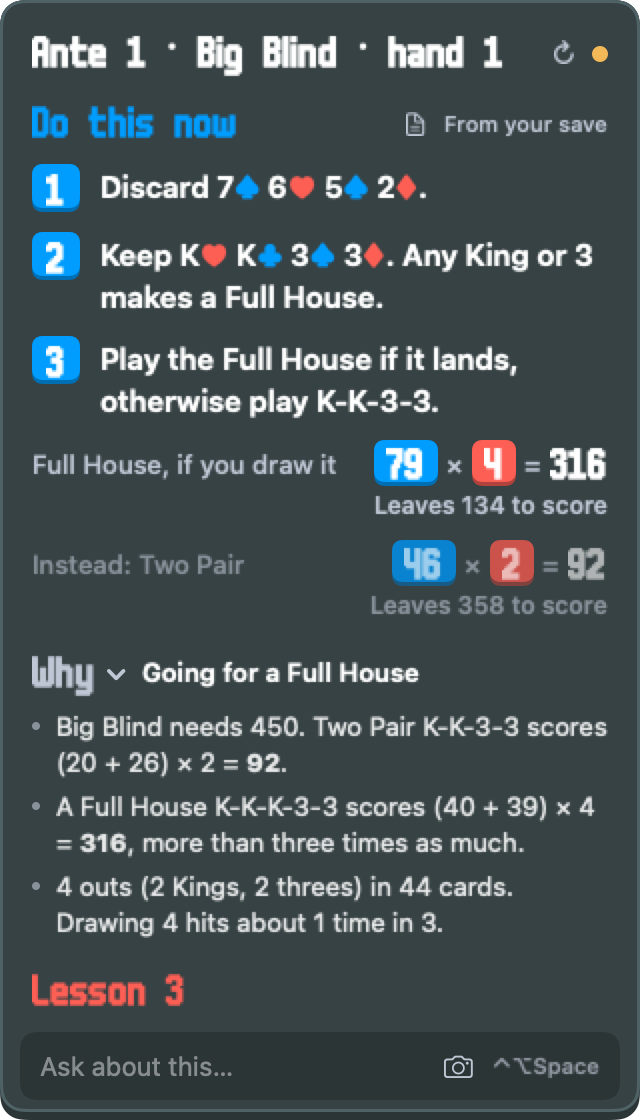
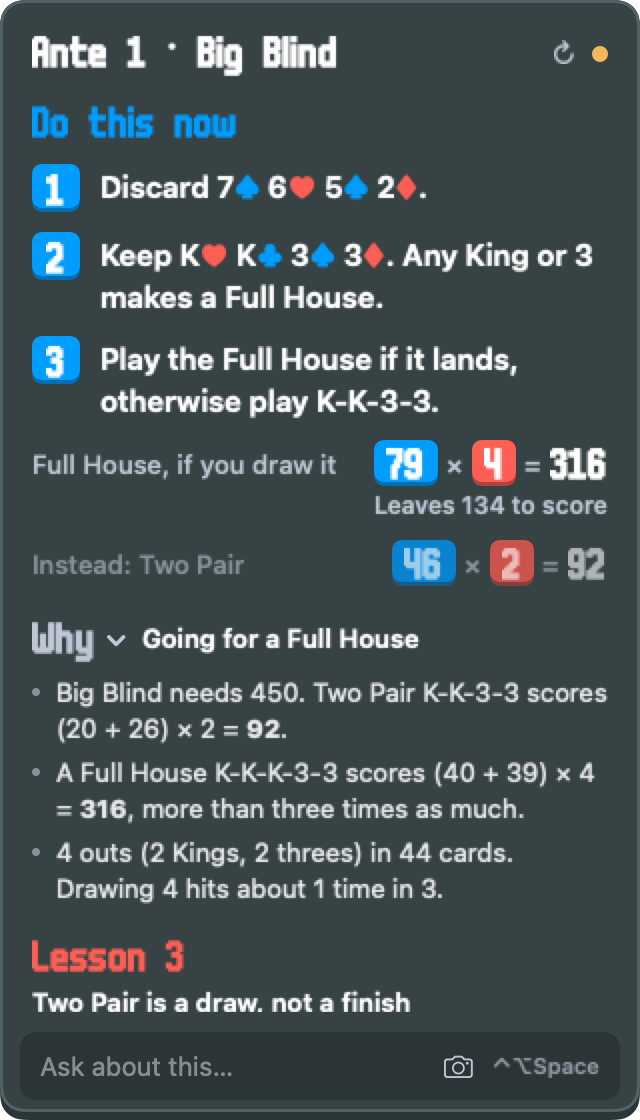
Cut the clutter in the panel
Steps only say what to do and the goal is left out when a hand is played,
because the score line already names it. The headline fits on one line,
"From your save" is gone and a hand that clears shows a gold total and a
tick. Rounded score lines using "≈" now get their chip and mult tiles.

Changed region(s): [[0.0312, 0.5312, 0.9688, 0.9062], [0.625, 0.0938, 0.9688, 0.125], [0.5938, 0.0312, 0.7812, 0.0625]]

diff --git a/Sources/Balabro/OverlayView.swift b/Sources/Balabro/OverlayView.swift
@@ -5,12 +5,12 @@ import SwiftUI
 ///
 /// ```
 /// ┌───────────────────────────────┐
-/// │ Ante 3 · Big Blind · hand 2 ↻●│  headline in the pixel font, refresh, status dot
-/// │ Do this now    From your save │  chip-blue label, and what the coach could see
+/// │ Ante 3 · Big Blind          ↻●│  headline in the pixel font, refresh, status dot
+/// │ Do this now  Saw your screen  │  chip-blue label, and whether the coach looked at the screen
 /// │ 1 Discard J♦ 4♠ 3♥ 2♥         │  large, numbered, red/blue suit glyphs
 /// │ 2 Play Q-Q-6-6                │
-/// │ Two Pair        [46] × [2] = 92 │  chip blue and mult red, as in the game
-/// │             Leaves 208 to score │  against what the save says is still needed
+/// │ Two Pair      [46] × [2] = 92 │  chip blue and mult red, as in the game
+/// │           Leaves 208 to score │  or a gold total and a tick if it clears, from what the save says is left
 /// │                               │  everything above stays put; everything below scrolls
 /// │ Why ▸ Going for a Straight    │  the goal stays visible, the reasons open with one tap
 /// │ Lesson 12                     │  mult-red label
@@ -284,9 +284,11 @@ private struct DoThisNow: View {
                     .font(Theme.pixelFont(2))
                     .foregroundStyle(Theme.chips)
                 Spacer(minLength: 0)
-                Label(sawScreen ? "Saw your screen" : "From your save", systemImage: sawScreen ? "camera.fill" : "doc.text")
-                    .font(.system(size: 11, weight: .medium))
-                    .foregroundStyle(Theme.muted)
+                if sawScreen {
+                    Label("Saw your screen", systemImage: "camera.fill")
+                        .font(.system(size: 11, weight: .medium))
+                        .foregroundStyle(Theme.muted)
+                }
             }
             ForEach(Array(steps.enumerated()), id: \.offset) { index, step in
                 StepRow(number: index + 1, text: step)
@@ -373,30 +375,53 @@ private struct ScoreRow: View {
     let line: Advice.ScoreLine
     let chipsNeeded: Double?
 
+    private var outcome: Advice.ScoreLine.Outcome? { chipsNeeded.flatMap(line.outcome) }
+
     var body: some View {
         VStack(alignment: .trailing, spacing: 2) {
-            HStack(spacing: 6) {
-                SuitText(line.label, size: 13, weight: .medium)
-                    .foregroundStyle(Theme.muted)
-                Spacer(minLength: 0)
-                if let sum = line.sum {
-                    HStack(spacing: 4) {
-                        tile(sum.chips, ChipTile())
-                        symbol("×")
-                        tile(sum.mult, ChipTile(face: Theme.mult, lip: Theme.multDeep))
-                        symbol("=")
-                        Text(sum.total).font(Theme.pixelFont(2)).foregroundStyle(Theme.text)
-                    }
-                    .fixedSize()
+            // Beside the numbers when it fits on one line, otherwise above them, so a long label never wraps letter by letter.
+            ViewThatFits(in: .horizontal) {
+                HStack(spacing: 6) {
+                    label.fixedSize()
+                    Spacer(minLength: 0)
+                    numbers
+                }
+                VStack(alignment: .trailing, spacing: 4) {
+                    label.frame(maxWidth: .infinity, alignment: .leading)
+                    numbers
                 }
             }
-            if let outcome = chipsNeeded.flatMap(line.outcome) {
-                Text(outcome.text)
+            if !line.isAlternative, case .leaves(let chips) = outcome {
+                Text("Leaves \(chips) to score")
                     .font(.system(size: 12, weight: .semibold))
-                    .foregroundStyle(outcome.clearsBlind ? Theme.money : Theme.muted)
+                    .foregroundStyle(Theme.muted)
             }
         }
         .opacity(line.isAlternative ? 0.6 : 1)
+    }
+
+    private var label: some View {
+        SuitText(line.label, size: 13, weight: .medium)
+            .foregroundStyle(Theme.muted)
+    }
+
+    @ViewBuilder private var numbers: some View {
+        if let sum = line.sum {
+            HStack(spacing: 4) {
+                tile(sum.chips, ChipTile())
+                symbol("×")
+                tile(sum.mult, ChipTile(face: Theme.mult, lip: Theme.multDeep))
+                symbol("=")
+                Text(sum.total).font(Theme.pixelFont(2)).foregroundStyle(outcome == .clears ? Theme.money : Theme.text)
+                if outcome == .clears {
+                    Image(systemName: "checkmark")
+                        .font(.system(size: 10, weight: .heavy))
+                        .foregroundStyle(Theme.money)
+                        .accessibilityLabel("Clears the blind")
+                }
+            }
+            .fixedSize()
+        }
     }
 
     private func tile(_ number: String, _ background: ChipTile) -> some View {

diff --git a/Sources/BalabroCore/Prompt.swift b/Sources/BalabroCore/Prompt.swift
@@ -23,9 +23,8 @@ enum Prompt {
         - Two Pair: 46 x 2 = 92
         - Instead, Full House: 76 x 4 = 304
 
-        **Goal:** At most eight words. If the steps play a hand now, name it, such as "Playing a Diamond Flush to clear \
-        the blind". Otherwise say what this is building towards, such as "Going for a Straight" or "Saving up for a \
-        second joker".
+        **Goal:** At most eight words on what this is building towards, such as "Going for a Straight" or "Saving up for \
+        a second joker". Leave the Goal out when the steps play a hand now, because the Score block already names it.
 
         **Why:**
         - At most four bullets, one line each, no nested bullets.
@@ -37,6 +36,7 @@ enum Prompt {
         starting at 1, and never repeat one you already gave.
 
         Rules:
+        - Steps say only what to do. Reasons go in Why, so "Play 7♦ 6♠ 6♣ 4♦." and not "Play 7♦ 6♠ 6♣ 4♦ so the pair scores".
         - At every play or discard decision, check the order of the player's jokers. Jokers score from left to right, \
         so +Mult should come before XMult, Blueprint copies the joker to its right and Brainstorm copies the leftmost. \
         Effects that say "when scored" fire with the cards, before any joker's own effect, so their position doesn't \
@@ -52,7 +52,8 @@ enum Prompt {
         for the hand the steps play or aim for, written as "Full House, if you draw it" when it needs a draw. Then add \
         one line for the hand the player would most likely play instead, starting "Instead,", even if it's a bigger \
         kind of hand, so they can compare the two. Write each line as "hand: chips x mult = total", with chips and mult \
-        after every card and joker that scores. Leave the block out in the shop, in a pack and at a blind select.
+        after every card and joker that scores, always with "=" even when the numbers are rounded. Name the hand exactly, \
+        such as "Diamond Flush" or "Pair of 9s". Leave the block out in the shop, in a pack and at a blind select.
         - End the steps at the first discard, play, reroll or pack opening, because that changes the board and you get the new state \
         straight away. Your next answer replaces these steps, so anything after that point would vanish. Put what \
         comes after in the Goal instead. Dragging jokers and buying cards don't change the board, so they can come \
@@ -184,10 +185,10 @@ enum Prompt {
         If the answer depends on cards the state doesn't list, such as a booster pack's contents, ask the player to list them.
         """
 
-    /// "Ante 3 · Big Blind · 3 hands, 2 discards". The overlay's headline and the transcript title.
+    /// "Ante 3 · Big Blind". The overlay's headline and the transcript title.
     static func title(_ kind: Decision.Kind, _ s: RunSnapshot, _ text: GameText) -> String {
         let detail = switch kind {
-        case .playHand: "\(s.blind.map { name($0.key, text) } ?? "Blind") · \(s.handsLeft) hands, \(s.discardsLeft) discards"
+        case .playHand: s.blind.map { name($0.key, text) } ?? "Blind"
         case .shop: "Shop"
         case .blindSelect: "Blind select"
         case .openPack(let pack, _): packName(pack)

diff --git a/Sources/Balabro/Previews.swift b/Sources/Balabro/Previews.swift
@@ -11,10 +11,10 @@ enum Previews {
         try? FileManager.default.createDirectory(at: directory, withIntermediateDirectories: true)
         let states: [(String, CoachView, Bool, CGFloat, Updater.Status)] = [
             ("waiting", CoachView(status: .waitingForRun, headline: "", advice: nil, thread: [], queuedQuestion: nil, problem: nil, canRetry: false), false, 420, .none),
-            ("streaming", CoachView(status: .answering, headline: "Ante 1 · Big Blind · hand 1", advice: streaming, thread: [], queuedQuestion: nil, problem: nil, canRetry: false), false, 420, .none),
-            ("finished", CoachView(status: .ready, headline: "Ante 1 · Big Blind · hand 1", chipsNeeded: 450, advice: finished, thread: [], queuedQuestion: nil, problem: nil, canRetry: false), true, 560, .none),
-            ("update", CoachView(status: .ready, headline: "Ante 1 · Big Blind · hand 1", advice: finished, thread: [], queuedQuestion: nil, problem: nil, canRetry: false), false, 420, .available(release)),
-            ("follow-up", CoachView(status: .ready, headline: "Ante 1 · Big Blind · hand 1", advice: finished, thread: thread, queuedQuestion: nil, problem: nil, canRetry: false), false, 520, .none),
+            ("streaming", CoachView(status: .answering, headline: "Ante 1 · Big Blind", advice: streaming, thread: [], queuedQuestion: nil, problem: nil, canRetry: false), false, 420, .none),
+            ("finished", CoachView(status: .ready, headline: "Ante 1 · Big Blind", chipsNeeded: 450, advice: finished, thread: [], queuedQuestion: nil, problem: nil, canRetry: false), true, 560, .none),
+            ("update", CoachView(status: .ready, headline: "Ante 1 · Big Blind", advice: finished, thread: [], queuedQuestion: nil, problem: nil, canRetry: false), false, 420, .available(release)),
+            ("follow-up", CoachView(status: .ready, headline: "Ante 1 · Big Blind", advice: finished, thread: thread, queuedQuestion: nil, problem: nil, canRetry: false), false, 520, .none),
         ]
         for (name, view, showWhy, height, update) in states {
             let url = directory.appending(path: "overlay-\(name).png")

diff --git a/Sources/BalabroCore/Advice.swift b/Sources/BalabroCore/Advice.swift
@@ -31,19 +31,15 @@ public struct Advice: Sendable, Equatable {
             public init(chips: String, mult: String, total: String) { (self.chips, self.mult, self.total) = (chips, mult, total) }
         }
 
-        public struct Outcome: Sendable, Equatable {
-            public var text: String
-            public var clearsBlind: Bool
-
-            public init(text: String, clearsBlind: Bool) { (self.text, self.clearsBlind) = (text, clearsBlind) }
+        public enum Outcome: Sendable, Equatable {
+            case clears
+            case leaves(String)
         }
 
         /// What this hand does to the blind, given the score still needed. nil when the total isn't a number.
         public func outcome(chipsNeeded: Double) -> Outcome? {
             guard let total = sum.flatMap({ Double($0.total.replacing(",", with: "")) }) else { return nil }
-            return total >= chipsNeeded
-                ? Outcome(text: "Clears the blind", clearsBlind: true)
-                : Outcome(text: "Leaves \(Prompt.chips(chipsNeeded - total)) to score", clearsBlind: false)
+            return total >= chipsNeeded ? .clears : .leaves(Prompt.chips(chipsNeeded - total))
         }
 
         public init(label: String, sum: Sum? = nil, isAlternative: Bool = false) {
@@ -54,7 +50,7 @@ public struct Advice: Sendable, Equatable {
             var text = line.replacing("**", with: "")
             let isAlternative = text.lowercased().hasPrefix("instead")
             if isAlternative { text = "Instead: " + text.dropFirst("instead".count).drop { ",: ".contains($0) } }
-            guard let match = text.wholeMatch(of: /(.*?)[:\s]*([\d,.]+)\s*[x×]\s*([\d,.]+)\s*=\s*([\d,]+(?:\.\d+)?(?:e\+?\d+)?)\.?/) else {
+            guard let match = text.wholeMatch(of: /(.*?)[:\s]*([\d,.]+)\s*[x×]\s*([\d,.]+)\s*(?:=|≈|~=|~)\s*([\d,]+(?:\.\d+)?(?:e\+?\d+)?)\.?/) else {
                 self.init(label: text, isAlternative: isAlternative)
                 return
             }

diff --git a/Tests/BalabroCoreTests/AdviceTests.swift b/Tests/BalabroCoreTests/AdviceTests.swift
@@ -79,6 +79,14 @@ struct AdviceTests {
         #expect(a.why == ["It beats the blind."])
     }
 
+    @Test func roundedScoreLineStillGetsItsNumbers() {
+        let a = Advice(markdown: "**Score:**\n- Pair of 6s: 230 x 1,291 ≈ 296,900\n- Instead, Pair of 4s: 226 x 1,291 ~ 291,800")
+        #expect(a.score == [
+            .init(label: "Pair of 6s", sum: .init(chips: "230", mult: "1,291", total: "296,900")),
+            .init(label: "Instead: Pair of 4s", sum: .init(chips: "226", mult: "1,291", total: "291,800"), isAlternative: true),
+        ])
+    }
+
     @Test func scoreLineWhoseHandNameStartsWithANumberKeepsIt() {
         let a = Advice(markdown: "**Score:**\n- 3 of a Kind: 30 x 3 = 90")
         #expect(a.score == [.init(label: "3 of a Kind", sum: .init(chips: "30", mult: "3", total: "90"))])
@@ -122,10 +130,10 @@ struct AdviceTests {
 
     @Test func scoreLineSaysWhatTheHandDoesToTheBlind() {
         func line(_ total: String) -> Advice.ScoreLine { .init(label: "Flush", sum: .init(chips: "1", mult: "1", total: total)) }
-        #expect(line("2,412").outcome(chipsNeeded: 2000) == .init(text: "Clears the blind", clearsBlind: true))
-        #expect(line("2,000").outcome(chipsNeeded: 2000) == .init(text: "Clears the blind", clearsBlind: true))
-        #expect(line("1,914").outcome(chipsNeeded: 2000) == .init(text: "Leaves 86 to score", clearsBlind: false))
-        #expect(line("1,000").outcome(chipsNeeded: 3500) == .init(text: "Leaves 2,500 to score", clearsBlind: false))
+        #expect(line("2,412").outcome(chipsNeeded: 2000) == .clears)
+        #expect(line("2,000").outcome(chipsNeeded: 2000) == .clears)
+        #expect(line("1,914").outcome(chipsNeeded: 2000) == .leaves("86"))
+        #expect(line("1,000").outcome(chipsNeeded: 3500) == .leaves("2,500"))
         #expect(line("lots").outcome(chipsNeeded: 2000) == nil)
         #expect(Advice.ScoreLine(label: "Pair: about 60").outcome(chipsNeeded: 2000) == nil)
     }

diff --git a/Tests/BalabroCoreTests/CoachTests.swift b/Tests/BalabroCoreTests/CoachTests.swift
@@ -200,7 +200,7 @@ struct CoachTests {
         _ = coach.reduce(&state, .saveWritten(try snap("02-hand")))
         _ = coach.reduce(&state, .turnOutput(TurnID(0), .text("**Do this now:**\n1. Discard 7♠")))
         #expect(state.view.status == .answering)
-        #expect(state.view.headline == "Ante 1 · bl_small · 4 hands, 4 discards")
+        #expect(state.view.headline == "Ante 1 · bl_small")
         #expect(state.view.advice?.doNow == ["Discard 7♠"])
     }
 
@@ -223,7 +223,7 @@ struct CoachTests {
         _ = coach.reduce(&state, .ask("and the King?", withScreenshot: false))
         _ = coach.reduce(&state, .turnOutput(TurnID(2), .done("Keep it.", SessionID(rawValue: "S2"))))
 
-        #expect(state.view.headline == "Ante 1 · bl_small · 4 hands, 4 discards")
+        #expect(state.view.headline == "Ante 1 · bl_small")
         #expect(state.view.advice?.doNow == ["Discard 7♠."])
         #expect(state.view.advice?.why == ["It pairs with nothing."])
         #expect(state.view.thread == [

diff --git a/Sources/BalabroCore/Decision.swift b/Sources/BalabroCore/Decision.swift
@@ -18,7 +18,7 @@ public struct Decision: Sendable, Hashable {
 
     public let kind: Kind
     public let snapshot: RunSnapshot
-    /// "Ante 3 · Big Blind · 3 hands, 2 discards". The overlay's headline and the transcript title.
+    /// "Ante 3 · Big Blind". The overlay's headline and the transcript title.
     public let title: String
     /// The rendered prompt text. Its hash is the fingerprint, so "same decision" means exactly
     /// "the coach would be told the same thing". There's no second list of "decision-relevant fields" to keep in sync.

diff --git a/Sources/BalabroCore/Coach.swift b/Sources/BalabroCore/Coach.swift
@@ -391,7 +391,7 @@ public struct RunRecord: Sendable, Hashable, Codable {
 }
 
 public struct Exchange: Sendable, Hashable, Codable {
-    public var title: String     // "Ante 3 · Big Blind · hand 2", or the player's question
+    public var title: String     // "Ante 3 · Big Blind", or the player's question
     public var advice: String    // Claude's markdown, verbatim
     public var isQuestion = false
     public var sawScreen = false

diff --git a/Tests/BalabroCoreTests/DecisionTests.swift b/Tests/BalabroCoreTests/DecisionTests.swift
@@ -51,7 +51,7 @@ struct DecisionTests {
     }
 
     @Test func handTitle() throws {
-        #expect(try decision("03-hand-after-discard")?.title == "Ante 1 · bl_small · 4 hands, 3 discards")
+        #expect(try decision("03-hand-after-discard")?.title == "Ante 1 · bl_small")
     }
 
     func blindSelect(holding tags: [String]) throws -> Decision? {
